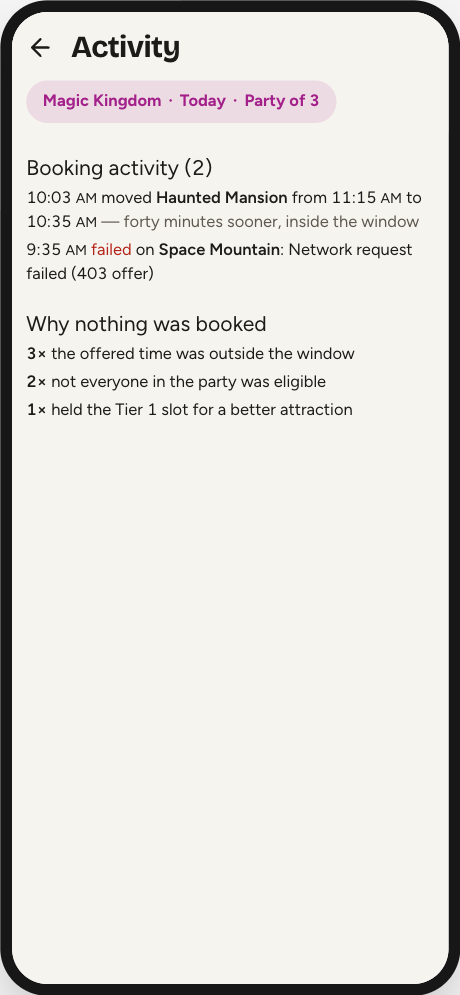
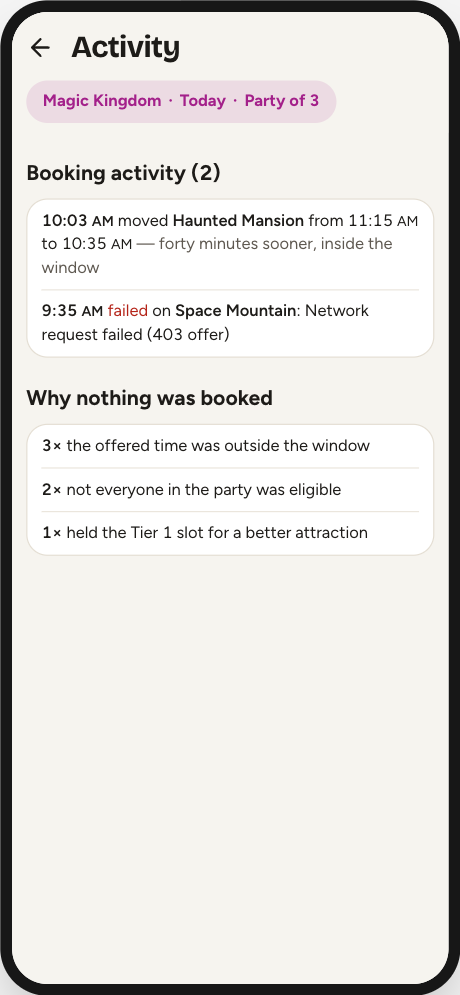
New look, slice 10: Activity
Activity brought in line with Today. Looks only: the same sections,
lines and words, and the red and yellow words keep their meanings.

- Its headings in bold, as Today's are.
- The day's log, the skip counts and the learned drop times each as a
  card with hairline rules, where they were bare lists.
- Each log line's time in semibold, so the column of times reads at a
  glance.

Checked in the harness at 360 px. The guide's Activity screenshot is
retaken.

diff --git a/src/components/ll/screens/Activity.tsx b/src/components/ll/screens/Activity.tsx
@@ -157,16 +157,19 @@ export default function Activity() {
   return (
     <Screen title={ACTIVITY} theme={park.theme} subhead={<ContextStrip />}>
       <QuarantinePanel doubts={doubts} />
-      <h3>Booking activity ({bookingLog.length})</h3>
+      <h3 className="mt-5 mb-2 font-bold">
+        Booking activity ({bookingLog.length})
+      </h3>
       {bookingLog.length === 0 ? (
         <p className="text-sm text-gray-600">
           Nothing booked, moved or swapped yet today.
         </p>
       ) : (
-        <ul className="text-sm">
+        <ul className="divide-y divide-gray-200 overflow-hidden rounded-[18px] border border-gray-300 bg-white px-3 text-sm [&>li]:py-2">
           {bookingLog.map((entry, i) => (
-            <li key={`${entry.name}-${i}`} className="py-0.5">
-              <Time time={entry.at} /> <BookingAction entry={entry} />
+            <li key={`${entry.name}-${i}`}>
+              <Time time={entry.at} className="font-semibold" />{' '}
+              <BookingAction entry={entry} />
               {entry.reason && (
                 <span className="text-gray-600"> &mdash; {entry.reason}</span>
               )}
@@ -177,12 +180,12 @@ export default function Activity() {
 
       {Object.keys(skipCounts).length > 0 && (
         <>
-          <h3>Why nothing was booked</h3>
-          <ul className="text-sm">
+          <h3 className="mt-5 mb-2 font-bold">Why nothing was booked</h3>
+          <ul className="divide-y divide-gray-200 overflow-hidden rounded-[18px] border border-gray-300 bg-white px-3 text-sm [&>li]:py-2">
             {Object.entries(skipCounts)
               .sort((a, b) => b[1] - a[1])
               .map(([reason, count]) => (
-                <li key={reason} className="py-0.5">
+                <li key={reason}>
                   <span className="font-semibold">{count}&times;</span>{' '}
                   {SKIP_TEXT[reason] ?? reason}
                 </li>
@@ -193,7 +196,9 @@ export default function Activity() {
 
       {learned.length > 0 && (
         <>
-          <h3>Learned drop times ({learned.length})</h3>
+          <h3 className="mt-5 mb-2 font-bold">
+            Learned drop times ({learned.length})
+          </h3>
           <p className="text-xs text-gray-600">
             Autopilot records when availability actually appears while it runs,
             and compares that with the built-in drop schedule. A drop seen on{' '}
@@ -202,9 +207,9 @@ export default function Activity() {
             watching. {observationCount} observation
             {observationCount === 1 ? '' : 's'} so far.
           </p>
-          <ul className="text-sm">
+          <ul className="mt-2 divide-y divide-gray-200 overflow-hidden rounded-[18px] border border-gray-300 bg-white px-3 text-sm [&>li]:py-2.5">
             {learned.map(d => (
-              <li key={d.experienceId} className="py-1">
+              <li key={d.experienceId}>
                 <div className="font-semibold">{nameOf(d.experienceId)}</div>
                 {d.observed.length > 0 && (
                   <div>

diff --git a/docs/NEW-LOOK.md b/docs/NEW-LOOK.md
@@ -72,6 +72,7 @@ park. Each slice keeps all of them.
 | 7 | Plans | each day as a quiet label that stays on screen while its plans scroll, on the page's own paper; the day's plans as one card with hairline rules | in review |
 | 8 | Configure | its section headings in bold, as Today's are; the add list and the not-on-today's-list list as cards of rows, the add rows the same buttons without their borders; rounder target cards, filter box, notices and undo strip | in review |
 | 9 | Plan Check | its headings in bold, as Today's are; the summary, each item, the connection result, the party result and the doubts panel as rounded boxes, as Today's notices are | in review |
+| 10 | Activity | its headings in bold, as Today's are; the log, the skip counts and the learned drop times each as a card with hairline rules; each log line's time in semibold | in review |
 
 **One deliberate departure from the mockups.** They put Today's main actions in
 a bar along the bottom. The switch stays in the page instead: a bar there sits
@@ -84,8 +85,8 @@ switch would be a new filter, not a new look, so it is not part of these
 slices. The mockups' single tappable park, date and party chip likewise: the
 header keeps its separate controls until that is built as behaviour.
 
-**Not yet redrawn** beyond what the foundation gave them: Activity, Timeline, the
-booking screens and Settings. They already have the palette, type, header, tab bar and buttons.
+**Not yet redrawn** beyond what the foundation gave them: Timeline, the booking
+screens and Settings. They already have the palette, type, header, tab bar and buttons.
 
 **The user guide's screenshots** show the new look. All 21 were retaken
 together once the new look's slices and the usability work had landed, from the
